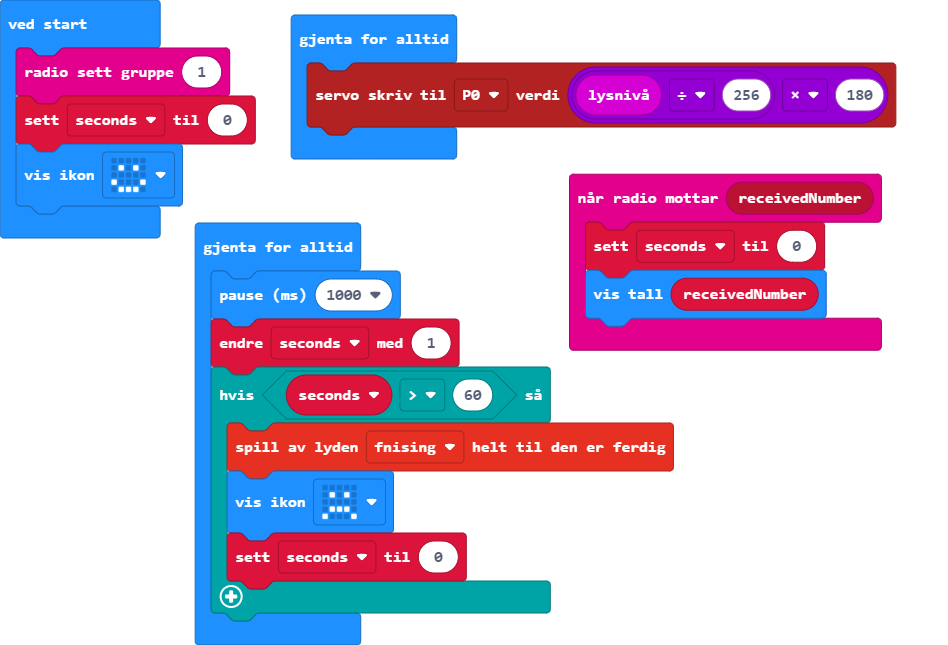
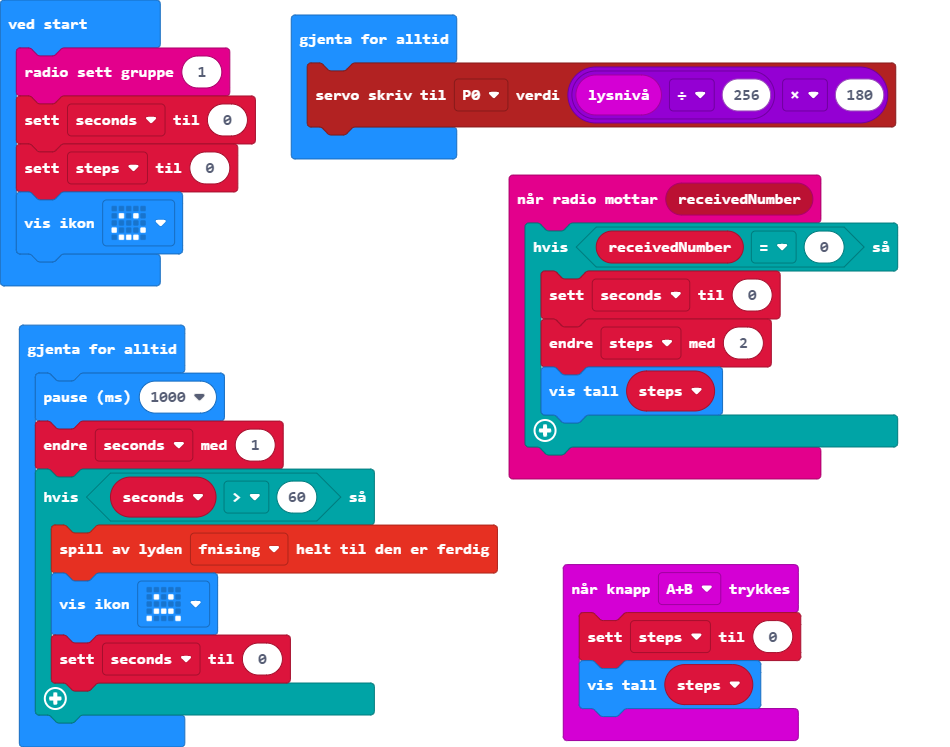
Oppdater main.blocks, main.ts

diff --git a/main.ts b/main.ts
@@ -1,10 +1,19 @@
 radio.onReceivedNumber(function (receivedNumber) {
-    seconds = 0
-    basic.showNumber(receivedNumber)
+    if (receivedNumber == 0) {
+        seconds = 0
+        steps += 2
+        basic.showNumber(steps)
+    }
 })
+input.onButtonPressed(Button.AB, function () {
+    steps = 0
+    basic.showNumber(steps)
+})
+let steps = 0
 let seconds = 0
 radio.setGroup(1)
 seconds = 0
+steps = 0
 basic.showIcon(IconNames.Happy)
 basic.forever(function () {
     pins.servoWritePin(AnalogPin.P0, input.lightLevel() / 256 * 180)
